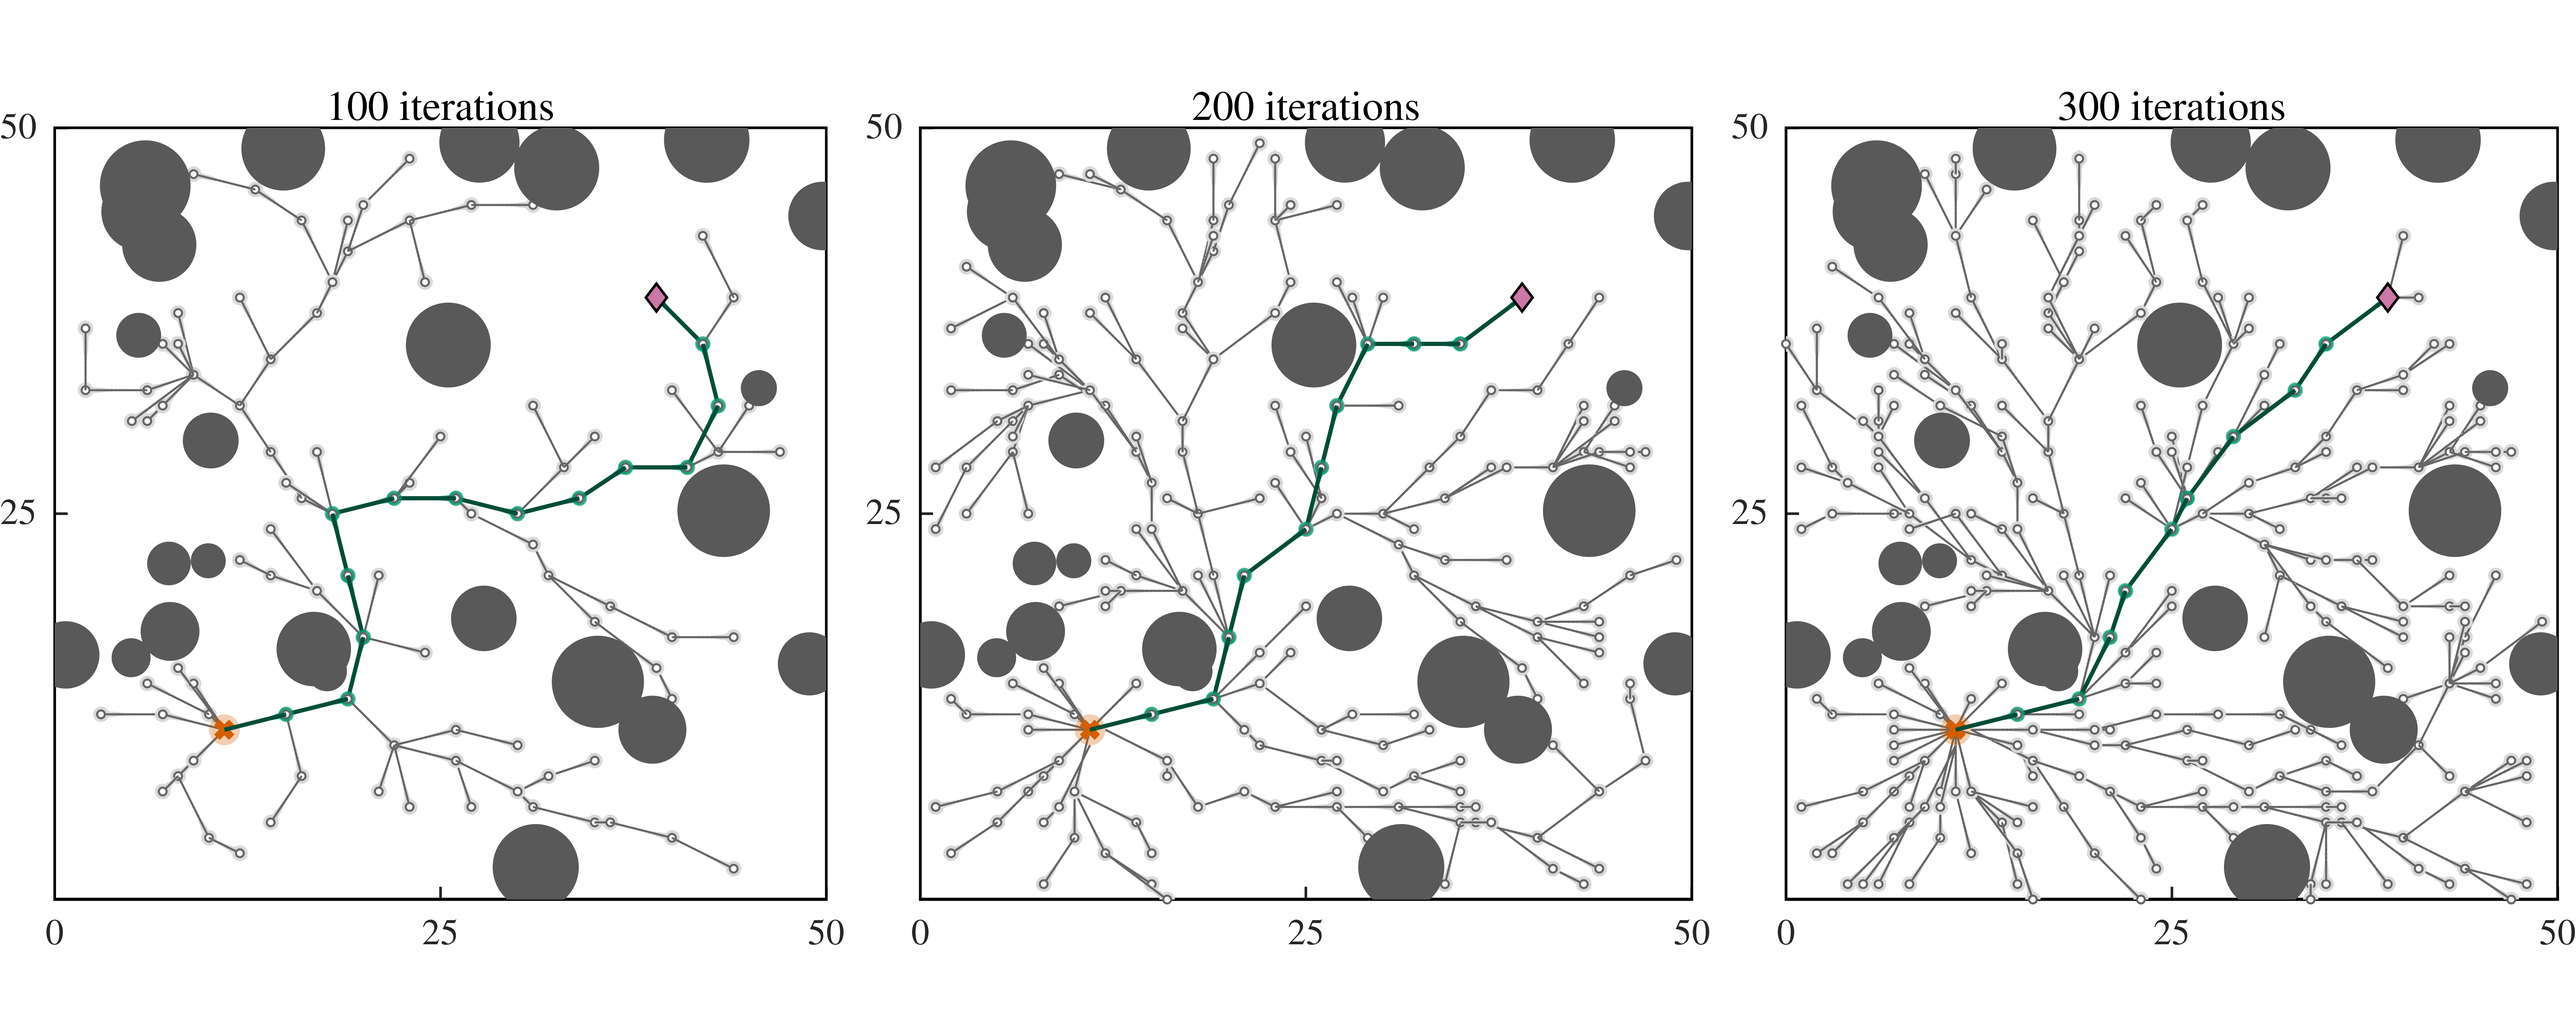
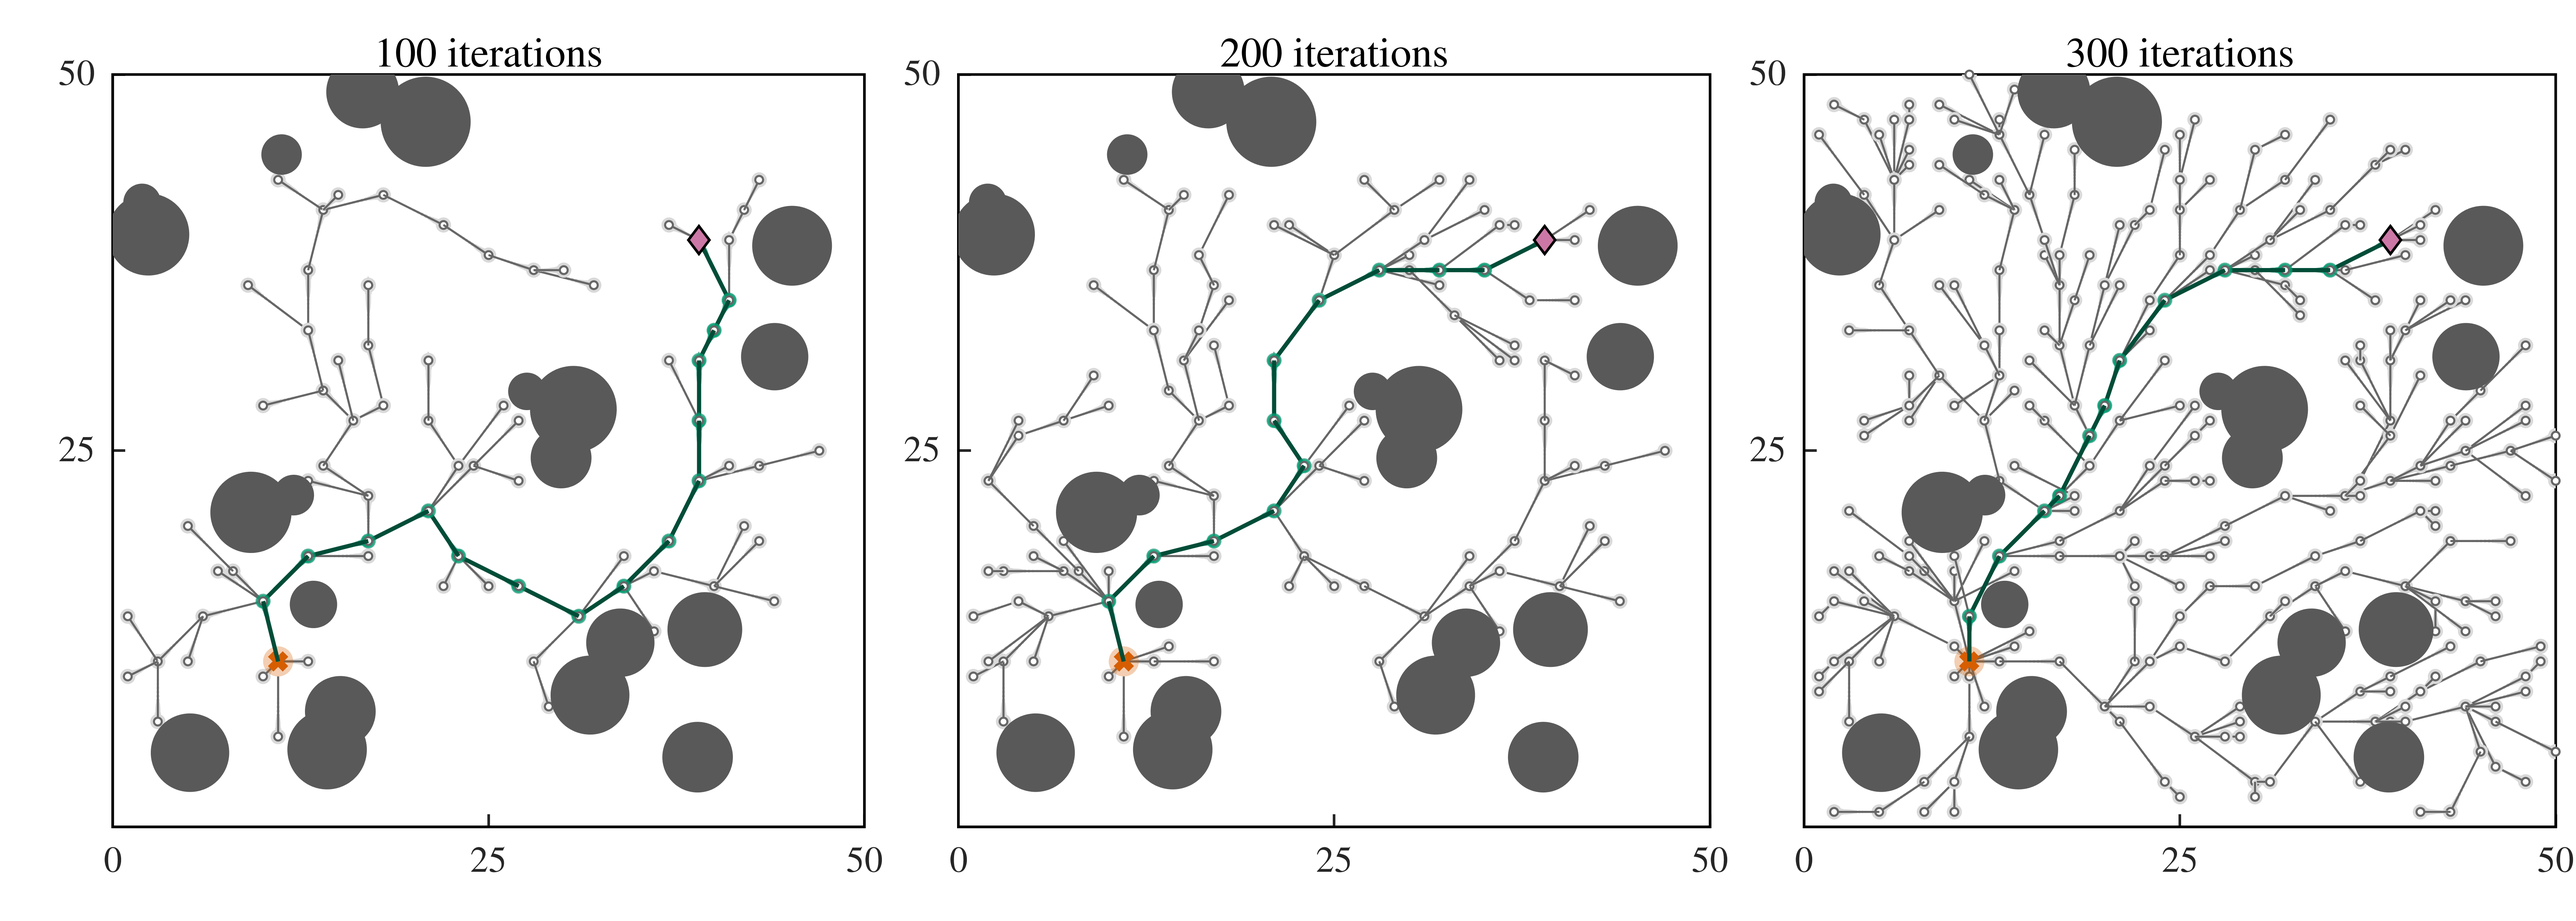
preplanning in quad forest with insets completed

Changed region(s): [[0.0, 0.031, 0.9997, 0.9306], [0.0, 0.4653, 0.0312, 0.5273], [0.6561, 0.8996, 0.6873, 0.9306]]

diff --git a/planningCode/Quadrotor/PiPXForestSense.m b/planningCode/Quadrotor/PiPXForestSense.m
@@ -228,8 +228,12 @@ end
 
 %Plot precomputation progress
 if drawForPaper
-    fig = ijrr_fig('double', 0.4);   % 6.85 x 3.3 in
-    tl  = tiledlayout(fig, 1, 3, 'TileSpacing', 'compact', 'Padding', 'tight');
+    % fig = ijrr_fig('double', 0.4);   % 6.85 x 3.3 in
+    % tl  = tiledlayout(fig, 1, 3, 'TileSpacing', 'compact', 'Padding', 'tight');
+    INSET_ITERS = [100, 200, 300];                       % which panels get an inset
+    [figA, axA] = planner.makePreplanFig();        % global view only
+    [figB, axB] = planner.makePreplanFig();        % same panels + insets
+    p = 0;
 end
 
 tic
@@ -265,8 +269,30 @@ while iteration < prePlanningIterationLimit %&& ~startFound
         if mod(iteration,100) == 0 && ~flag %if new configurations were added
 
             disp('Plotting..'); disp(iteration)
-            ax = nexttile(tl); hold on; title(sprintf('{%d iterations}', iteration));
-            planner.preplanningPhasePlotting(ax,C,G,F,W,totalIterationLimit);
+            % ax = nexttile(tl); hold on; title(sprintf('{%d iterations}', iteration));
+            % planner.preplanningPhasePlotting(ax,C,G,F,W,totalIterationLimit);
+
+            p = p + 1;
+            for ax = [axA(p), axB(p)]              % identical drawing into both figures
+                fig_ = ancestor(ax, 'figure');
+                set(groot, 'CurrentFigure', fig_);   % gca now resolves to this figure...
+                set(fig_, 'CurrentAxes', ax);        % ...and to this axes
+                hold(ax, 'on');
+                planner.preplanningPhasePlotting(ax, C, G, F, W, totalIterationLimit);
+                title(ax, sprintf('%d iterations', iteration));
+                axis(ax, 'equal');  axis(ax, [0 50 0 50]);
+                drawnow
+            end
+
+            %overlay insets
+            if ismember(iteration, INSET_ITERS)    
+                funnelPathXY = planner.solutionNodesXY(F);
+                center = funnelPathXY(round(size(funnelPathXY, 1) / 2), :);
+                insetSize = 7; %in meters (workspace)  % +/- 7 m window
+                region = [center(1) + [-insetSize insetSize], center(2) + [-insetSize insetSize]];
+                addZoomInset(axB(p), center, HalfWidth=insetSize, Size=0.4, Avoid=[F.goalNode.pose(1:2); funnelPathXY], ...
+                    DrawFcn=@(a) planner.drawInsetScene(a, F, W, region));
+            end
         end
     end
 end
@@ -286,7 +312,9 @@ if ~startFound
 end
 
 if drawForPaper
-    print(fig, './paper_figures/forest_sense_preplanning', '-dpng', '-r1000');
+    %print(fig, './paper_figures/forest_sense_preplanning', '-dpng', '-r1000');
+    print(figA, './paper_figures/forest_sense_preplanning',       '-dpng', '-r1000');
+    print(figB, './paper_figures/forest_sense_preplanning_inset', '-dpng', '-r1000');
 end
 
 return

diff --git a/planningCode/Quadrotor/lib/PiPxPlanner.m b/planningCode/Quadrotor/lib/PiPxPlanner.m
@@ -315,6 +315,21 @@ classdef PiPxPlanner < handle
                 'MarkerSize', 4, 'LineWidth', 1.5);
         end
         
+        % Fixed 1x3 layout for preplanning figure, full text width
+        function [fig, ax] = makePreplanFig(obj)
+            W = 6.85;  s = 2.00;                           % figure width, panel side (in)
+            mL = 0.30;  gap = 0.25;  mB = 0.25;  mT = 0.20; % margins; gap holds next panel's y ticks
+            H = mB + s + mT;                               % = 2.45 in
+            fig = ijrr_fig('double');
+            set(fig, 'Position', [1 1 W H], 'PaperSize', [W H], 'Resize', 'off', ...
+                'PaperPositionMode', 'manual', 'PaperPosition', [0 0 W H]);
+            ax = gobjects(1, 3);
+            for k = 1:3
+                ax(k) = axes(fig, 'Units', 'inches', 'Position', [mL + (k-1)*(s + gap), mB, s, s], ...
+                    'PositionConstraint', 'innerposition');
+            end
+        end
+
         function ax = preplanningPhasePlotting(obj,ax,C,G,F,W,totalIterationLimit)
             Q = heap(totalIterationLimit); %initialise the priority queue with the total iteration limit
             C.previousRobotNode = C.startNode; C.currentRobotNode = C.startNode;
@@ -357,8 +372,11 @@ classdef PiPxPlanner < handle
 
         % inset figures for magnigication
         function drawInsetScene(obj, a, F, W, region)
-            fig = ancestor(a, 'figure');
-            set(fig, 'CurrentAxes', a);       % class methods draw into gca
+            % fig = ancestor(a, 'figure');
+            % set(fig, 'CurrentAxes', a);       % class methods draw into gca
+            fig_ = ancestor(a, 'figure');
+            set(groot, 'CurrentFigure', fig_);
+            set(fig_, 'CurrentAxes', a);
             hold(a, 'on');
             W.drawAllObstacles();             % same obstacles as the global view
             drawRoadmapDetail(a, F, region, EllipseEvery=1); %TreeEvery=Inf
